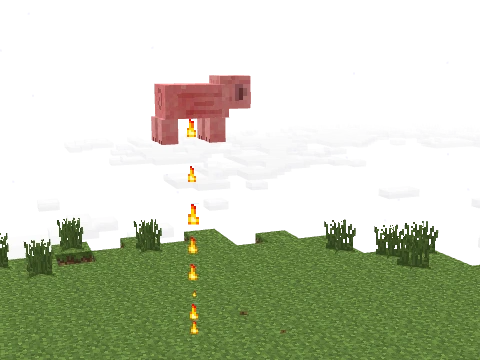
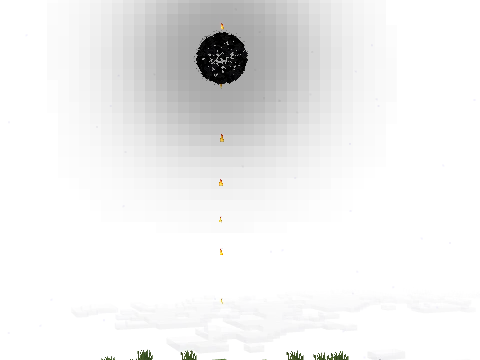
Cosmetics: bed destroy fixes (Pig Missile firework, baby pigs, Thief's bed, clouds) (#156)
* Cosmetics Library: Dragon Rider rebuilt from real games, only recorded dances, clouds and motes

Claude-Session: https://claude.ai/code/session_01N1jsNbSRNTPKUCVojD21RJ

* Cosmetics Library: 155 more cosmetics, all from real game data

Shopkeepers use the exact skins Hypixel's preview spawns, mob shopkeepers are
built from the 1.8.9 client's own models and textures, death cries play the
exact sound and pitch, kill messages use Hypixel's wording, wood skins use the
1.8 block textures. Animated-head shopkeepers (incl. Astronaut) left out until
every frame is known.

Claude-Session: https://claude.ai/code/session_01N1jsNbSRNTPKUCVojD21RJ

* Cosmetics Library: 39 final kill effects replayed from real previews

Final kill effects pages 1 and 2 are now played back from the recorded
in-game previews: every entity, item, head, nametag, mob, particle,
firework, lightning bolt and sound comes from the capture, simulated the
way the 1.8.9 client does it (cosmetics/recfx.js). Effects that ran past
their preview are stitched back together. The five hand-built versions
are replaced by the recorded ones; recorded previews use the game's own
entity lighting.

Claude-Session: https://claude.ai/code/session_01N1jsNbSRNTPKUCVojD21RJ

* Cosmetics Library: final kill fixes and a camera that follows the effect

- Heads and eggs: older 64x32 skins were read with 64x64 UVs (see-through
  spots); skin base layers are drawn solid like the game.
[…]

diff --git a/cosmetics.html b/cosmetics.html
@@ -1125,7 +1125,7 @@ const ITEMS = [
   { id: "spray-sabeetage", cat: "spray", name: "SaBEEtage", rar: "legendary", price: null, get: "event", desc: "Select the SaBEEtage Spray. This change is cosmetic.", tags: "spray map picture", rec: "spray-sabeetage", hero: 1.5, cam: [[-4.6, 1.8, -1.0], [-1.57, 1.5, 0], 1.0, 12, [-3.78, 1.56, -0.42], [-1.57, 1.5, 0]] },
   { id: "spray-pumpkin-pals", cat: "spray", name: "Pumpkin Pals", rar: "legendary", price: null, get: "event", desc: "Select the Pumpkin Pals Spray. This change is cosmetic.", tags: "spray map picture", rec: "spray-pumpkin-pals", hero: 1.5, cam: [[-4.6, 1.8, -1.0], [-1.57, 1.5, 0], 1.0, 12, [-3.78, 1.56, -0.42], [-1.57, 1.5, 0]] },
   { id: "spray-ouija", cat: "spray", name: "Ouija", rar: "legendary", price: null, get: "event", desc: "Select the Ouija Spray. This change is cosmetic.", tags: "spray map picture", rec: "spray-ouija", hero: 1.5, cam: [[-4.6, 1.8, -1.0], [-1.57, 1.5, 0], 1.0, 12, [-3.78, 1.56, -0.42], [-1.57, 1.5, 0]] },
-  { id: "bed-squid-missile", cat: "bed", name: "Squid Missile", rar: "common", price: 5000, get: "shop", desc: "Breaking a bed will spawn a fellow companion.", tags: "bed break", rec: "bed-squid-missile", hero: 2.38, cam: [[-11.39, 5.46, -4.53], [0, 3.25, 0], 6.1, 36.8, [-9.8, 5.21, -3.9], [0, 3.25, 0]] },
+  { id: "bed-squid-missile", cat: "bed", name: "Squid Missile", rar: "common", price: 5000, get: "shop", desc: "Breaking a bed will spawn a fellow companion.", tags: "bed break", rec: "bed-squid-missile", hero: 2.85, cam: [[-27, 7, -10.8], [0, 8.5, 0], 8, 50, [-24, 7, -9.6], [0, 9, 0]] },
   { id: "bed-firework", cat: "bed", name: "Firework", rar: "common", price: 5000, get: "shop", desc: "Breaking a bed will launch fireworks.", tags: "bed break", rec: "bed-firework", hero: 1.5, cam: [[-9.3, 3.3, -3.7], [0, 1.5, 0], 5.0, 30, [-8.0, 3.1, -3.18], [0, 1.5, 0]] },
   { id: "bed-lightning-strike", cat: "bed", name: "Lightning Strike", rar: "common", price: 5000, get: "shop", desc: "Breaking a bed will wake up Thor.", tags: "bed break", rec: "bed-lightning-strike", hero: 1.1, cam: [[-7.6, 2.27, -3.02], [0, 0.8, 0], 4.1, 24.5, [-6.54, 2.11, -2.6], [0, 0.8, 0]] },
   { id: "bed-ghost", cat: "bed", name: "Ghost", rar: "common", price: null, get: "event", season: "Halloween", desc: "Plays the Ghost Bed Destroy when you break a bed.", tags: "bed break", rec: "bed-ghost", hero: 6.88, cam: [[-11.72, 4.25, -4.66], [0, 1.98, 0], 6.3, 37.8, [-10.08, 4.0, -4.01], [0, 1.98, 0]] },
@@ -1136,7 +1136,7 @@ const ITEMS = [
   { id: "bed-bed-bugs", cat: "bed", name: "Bed Bugs", rar: "legendary", price: 100000, get: "shop", desc: "Breaking a bed will release the bugs within.", tags: "bed break", rec: "bed-bed-bugs", hero: 1.15, cam: [[-8.92, 2.53, -3.55], [0, 0.8, 0], 4.8, 28.8, [-7.68, 2.34, -3.05], [0, 0.8, 0]] },
   { id: "bed-thief", cat: "bed", name: "Thief", rar: "epic", price: 25000, get: "shop", desc: "Plays the Thief Bed Destroy when you break a bed.", tags: "bed break", rec: "bed-thief", hero: 2.38, cam: [[-8.46, 3.84, -3.37], [0, 2.2, 0], 4.6, 27.3, [-7.28, 3.66, -2.9], [0, 2.2, 0]] },
   { id: "bed-pigsplosion", cat: "bed", name: "Pigsplosion", rar: "legendary", price: 100000, get: "shop", desc: "Breaking a bed will spawn a bunch of baby pigs.", tags: "bed break", rec: "bed-pigsplosion", hero: 1.15, cam: [[-6.76, 2.51, -2.69], [0, 1.2, 0], 3.6, 21.8, [-5.82, 2.36, -2.31], [0, 1.2, 0]] },
-  { id: "bed-pig-missile", cat: "bed", name: "Pig Missile", rar: "rare", price: 10000, get: "shop", desc: "Breaking a bed will spawn a fellow companion.", tags: "bed break", rec: "bed-pig-missile", hero: 2.12, cam: [[-11.39, 5.46, -4.53], [0, 3.25, 0], 6.1, 36.8, [-9.8, 5.21, -3.9], [0, 3.25, 0]] },
+  { id: "bed-pig-missile", cat: "bed", name: "Pig Missile", rar: "rare", price: 10000, get: "shop", desc: "Breaking a bed will spawn a fellow companion.", tags: "bed break", rec: "bed-pig-missile", hero: 2.9, cam: [[-27, 7, -10.8], [0, 8.5, 0], 8, 50, [-24, 7, -9.6], [0, 9, 0]] },
   // Kill messages: Hypixel's exact wording
   { id: "km-fire", cat: "msg", name: "Fire", rar: "common", price: 5000, get: "shop", desc: "Select the Fire Kill Messages!", tags: "chat",
     lines: km(["{V} was struck down by {K}.", "{V} was turned to dust {K}.", "{V} was melted by {K}.", "{V} was turned to ash by {K}.", "{V} was fried by {K}'s {MOB}.", "{BED} was incinerated by {K}!"]) },
@@ -1998,27 +1998,37 @@ function makeArena() {
 // Minecraft's own cloud layer (clouds.png: one pixel = one cloud block), drawn
 // like 1.8's fancy clouds: solid slabs with only their outside faces, a bright
 // top, shaded sides and a darker underside, softly see-through.
+// The layer drifts like the game's: the pattern wraps around clouds.png, so it
+// never jumps back; each time it has moved one cloud block the slabs are rebuilt
+// one pixel further along the picture.
 function makeClouds() {
-  const N = 120, S = 4, H = 1.6, im = entityImgs.clouds, c = crop(im, 60, 60, N, N), d = c.getContext("2d").getImageData(0, 0, N, N).data;
-  const on = (x, z) => x >= 0 && z >= 0 && x < N && z < N && d[(z * N + x) * 4 + 3] > 128;
-  const pos = [], col = [], FAR = N * S / 2;
-  // Fades out toward the horizon instead of ending in a hard edge.
-  const face = (pts, shade) => { for (const k of [0, 1, 2, 0, 2, 3]) { const q = pts[k]; pos.push(...q); const a = .62 * Math.max(0, Math.min(1, 1.25 - Math.hypot(q[0], q[2]) / FAR)); col.push(shade, shade, shade * 1.02, a); } };
-  for (let z = 0; z < N; z++) for (let x = 0; x < N; x++) {
-    if (!on(x, z)) continue;
-    const x0 = (x - N / 2) * S, x1 = x0 + S, z0 = (z - N / 2) * S, z1 = z0 + S;
-    face([[x0, H, z0], [x0, H, z1], [x1, H, z1], [x1, H, z0]], 1);
-    face([[x0, 0, z0], [x1, 0, z0], [x1, 0, z1], [x0, 0, z1]], .72);
-    if (!on(x - 1, z)) face([[x0, 0, z0], [x0, 0, z1], [x0, H, z1], [x0, H, z0]], .9);
-    if (!on(x + 1, z)) face([[x1, 0, z1], [x1, 0, z0], [x1, H, z0], [x1, H, z1]], .9);
-    if (!on(x, z - 1)) face([[x1, 0, z0], [x0, 0, z0], [x0, H, z0], [x1, H, z0]], .82);
-    if (!on(x, z + 1)) face([[x0, 0, z1], [x1, 0, z1], [x1, H, z1], [x0, H, z1]], .82);
-  }
-  const geo = new THREE.BufferGeometry();
-  geo.setAttribute("position", new THREE.Float32BufferAttribute(pos, 3));
-  geo.setAttribute("color", new THREE.Float32BufferAttribute(col, 4));
-  const m = new THREE.Mesh(geo, new THREE.MeshBasicMaterial({ vertexColors: true, transparent: true, depthWrite: false, side: THREE.DoubleSide }));
-  const g = new THREE.Group(); g.add(m); return g;
+  const N = 120, S = 4, H = 1.6, im = entityImgs.clouds, W = im.width, IH = im.height, d = crop(im, 0, 0, W, IH).getContext("2d").getImageData(0, 0, W, IH).data;
+  const m = new THREE.Mesh(new THREE.BufferGeometry(), new THREE.MeshBasicMaterial({ vertexColors: true, transparent: true, depthWrite: false, side: THREE.DoubleSide }));
+  const g = new THREE.Group(); g.add(m);
+  const build = (shift) => {
+    const on = (x, z) => x >= 0 && z >= 0 && x < N && z < N && d[((60 + z) * W + ((((60 + x - shift) % W) + W) % W)) * 4 + 3] > 128;
+    const pos = [], col = [], FAR = N * S / 2;
+    // Fades out toward the horizon instead of ending in a hard edge.
+    const face = (pts, shade) => { for (const k of [0, 1, 2, 0, 2, 3]) { const q = pts[k]; pos.push(...q); const a = .62 * Math.max(0, Math.min(1, 1.25 - Math.hypot(q[0], q[2]) / FAR)); col.push(shade, shade, shade * 1.02, a); } };
+    for (let z = 0; z < N; z++) for (let x = 0; x < N; x++) {
+      if (!on(x, z)) continue;
+      const x0 = (x - N / 2) * S, x1 = x0 + S, z0 = (z - N / 2) * S, z1 = z0 + S;
+      face([[x0, H, z0], [x0, H, z1], [x1, H, z1], [x1, H, z0]], 1);
+      face([[x0, 0, z0], [x1, 0, z0], [x1, 0, z1], [x0, 0, z1]], .72);
+      if (!on(x - 1, z)) face([[x0, 0, z0], [x0, 0, z1], [x0, H, z1], [x0, H, z0]], .9);
+      if (!on(x + 1, z)) face([[x1, 0, z1], [x1, 0, z0], [x1, H, z0], [x1, H, z1]], .9);
+      if (!on(x, z - 1)) face([[x1, 0, z0], [x0, 0, z0], [x0, H, z0], [x1, H, z0]], .82);
+      if (!on(x, z + 1)) face([[x0, 0, z1], [x1, 0, z1], [x1, H, z1], [x0, H, z1]], .82);
+    }
+    const geo = new THREE.BufferGeometry();
+    geo.setAttribute("position", new THREE.Float32BufferAttribute(pos, 3));
+    geo.setAttribute("color", new THREE.Float32BufferAttribute(col, 4));
+    m.geometry.dispose(); m.geometry = geo;
+  };
+  let cur = null;
+  g.userData.drift = (dist) => { const k = Math.floor(dist / S); if (k !== cur) { cur = k; build(k); } g.position.x = dist - k * S; };
+  g.userData.drift(0);
+  return g;
 }
 // Where the camera sits for each stage: [position, target, min, max distance, thumbnail position, thumbnail target].
 const STAGE_CAM = {
@@ -2101,7 +2111,7 @@ function makeStudio(canvas, w, h) {
     S.t += dt; S.clock = (S.clock || 0) + dt;
     island.position.y = Math.sin(S.clock * 0.8) * 0.04; item.position.y = island.position.y; S.fx.g.position.y = island.position.y;
     if (arena) arena.position.y = island.position.y;
-    if (clouds) clouds.position.x = (S.clock * .6) % 4;
+    if (clouds) clouds.userData.drift(S.clock * .6);
     if (S.def.loop && S.t > S.def.loop) { if (S.audible) stopSounds(); S.load(S.def); }
     S.ci = 0; S.tick?.(S.t, dt); S.fx.update(dt);
     for (let i = S.anims.length - 1; i >= 0; i--) { const a = S.anims[i]; a.age += dt; const f = Math.floor(Math.max(0, a.age) / a.life * 16);

diff --git a/cosmetics/recfx.js b/cosmetics/recfx.js
@@ -1363,12 +1363,26 @@ export function createRecFx(kit0) {
     const legR = piece(m, [-2, -5, 0]); cube(legR, mat, 64, 32, 56, 0, [-1, 0, -1, 2, 30, 2]);
     const legL = piece(m, [2, -5, 0]); cube(legL, mat, 64, 32, 56, 0, [-1, 0, -1, 2, 30, 2], true);
     const cl = (v) => clamp(v, -0.4, 0.4);
+    // LayerHeldBlock: data 16 is the carried block id, 17 its metadata
+    let heldKey = null, heldG = null;
+    const held = (e) => {
+      const id = e.meta["16"] || 0, d = e.meta["17"] || 0, k = id ? id + ":" + d : null;
+      if (k === heldKey) return; heldKey = k;
+      if (heldG) { m.remove(heldG); heldG = null; }
+      if (!id) return;
+      const g0 = heldG = new THREE.Group(); heldG.scale.set(1, -1, -1); m.add(heldG); // GL space of the model
+      const a = new THREE.Group(); a.position.set(0, 0.6875, -0.75); a.rotation.x = 20 * D2R; heldG.add(a);
+      const b = new THREE.Group(); b.rotation.y = 45 * D2R; a.add(b);
+      const c = new THREE.Group(); c.position.set(0.25, 0.1875, 0.25); c.scale.set(-0.5, -0.5, 0.5); b.add(c);
+      modelsReady.then(() => { const name = blockKey(id, d); if (name && heldG === g0) { const r = new THREE.Group(); r.rotation.y = Math.PI / 2; r.add(blockMesh(name)); c.add(r); } }); // renderModelBrightness turns 90 degrees first
+    };
     return {
       m, scale: 1,
       set(e, pt) { // biped angles, arms and legs halved and kept within 0.4
         const ls = lerp(e.pls, e.ls, pt), la = lerp(e.pla, e.la, pt), [hx, hy] = headAngles(e, pt), [dx, dz] = idleArms(e.age + pt);
-        rot(head, hx, hy, 0);
-        rot(armR, cl((Math.cos(ls * 0.6662 + Math.PI) * 2 * la * 0.5 + dx) * 0.5), 0, dz); rot(armL, cl((Math.cos(ls * 0.6662) * 2 * la * 0.5 - dx) * 0.5), 0, -dz);
+        rot(head, hx, hy, 0); held(e);
+        if (heldKey) { rot(armR, -0.5, 0, 0.05); rot(armL, -0.5, 0, -0.05); } else // carrying: both arms forward
+        rot(armR, cl((Math.cos(ls * 0.6662 + Math.PI) * 2 * la * 0.5 + dx) * 0.5), 0, dz), rot(armL, cl((Math.cos(ls * 0.6662) * 2 * la * 0.5 - dx) * 0.5), 0, -dz);
         rot(legR, cl(Math.cos(ls * 0.6662) * 1.4 * la * 0.5)); rot(legL, cl(Math.cos(ls * 0.6662 + Math.PI) * 1.4 * la * 0.5));
       },
     };
@@ -1412,6 +1426,7 @@ export function createRecFx(kit0) {
       },
     };
   }
+  const CHILD_TYPES = new Set([93, 101, 95, 92, 90]); // EntityAgeable: data 12 below 0 is a baby
   const MOB_MODEL = { 30: armorStand, 78: armorStand, 93: chicken, 101: rabbit, 95: wolf, 65: bat, 94: squid, 92: cow, 99: ironGolem, 66: witch, 68: guardian,
     90: pig, 67: endermite, 51: skeleton, 54: zombie, 57: pigman, 50: creeper, 61: blaze, 97: snowman, 58: enderman, 120: villager, 64: wither };
   const HEIGHT = { 90: 0.9, 67: 0.3, 30: 1.975, 78: 1.975, 93: 0.7, 101: 0.7, 95: 0.85, 65: 0.9, 94: 0.95, 92: 1.3, 99: 2.9, 66: 1.95, 68: 0.85, player: 1.8,
@@ -1672,6 +1687,10 @@ export function createRecFx(kit0) {
     }
     function applyMeta(e, m) {
       Object.assign(e.meta, m);
+      if (e.kind === "mob" && "12" in m && CHILD_TYPES.has(e.type)) { // a mob turned into a baby (or grew up): rebuild its model
+        const c = (e.meta["12"] ?? 0) < 0;
+        if (c !== e.child) { e.child = c; if (e.corpse) { e.g.remove(e.corpse); setupLiving(e); } }
+      }
       if (e.type === 30 || e.type === 78) { e.small = !!(e.meta["10"] & 1); if (e.model) e.height = e.meta["10"] & 16 ? 0 : e.small ? 0.9875 : 1.975; }
       if ("6" in m && e.living) { const h = m["6"]; if (h <= 0 && e.health > 0) e.health = 0; else if (h > 0) e.health = h; }
       if (e.type === 2) setItemStack(e);
@@ -1699,7 +1718,7 @@ export function createRecFx(kit0) {
           const [, , id, type, x, y, z, yaw, pitch, headYaw, meta] = ev;
           const e = makeEnt(id, "mob", type, x, y, z, yaw * B2D, pitch * B2D); e.living = true; e.sx = x; e.sy = y; e.sz = z;
           e.head = e.phead = e.body = e.pbody = headYaw * B2D;
-          Object.assign(e.meta, meta); e.small = type === 30 && !!(meta["10"] & 1); e.child = (type === 93 || type === 101 || type === 95 || type === 92 || type === 90) && (meta["12"] ?? 0) < 0;
+          Object.assign(e.meta, meta); e.small = type === 30 && !!(meta["10"] & 1); e.child = CHILD_TYPES.has(type) && (meta["12"] ?? 0) < 0;
           if (type === 94) { e.rv = 1 / (rand() + 1) * 0.2; e.srot = 0; e.spitch = e.pspitch = 0; e.tent = e.ptent = 0; }
           if (type === 93) { e.wing = e.pwing = 0; e.dest = e.pdest = 0; e.wingD = 1; }
           if (type === 101) { e.jumpTicks = 0; e.jumpDur = 0; }
